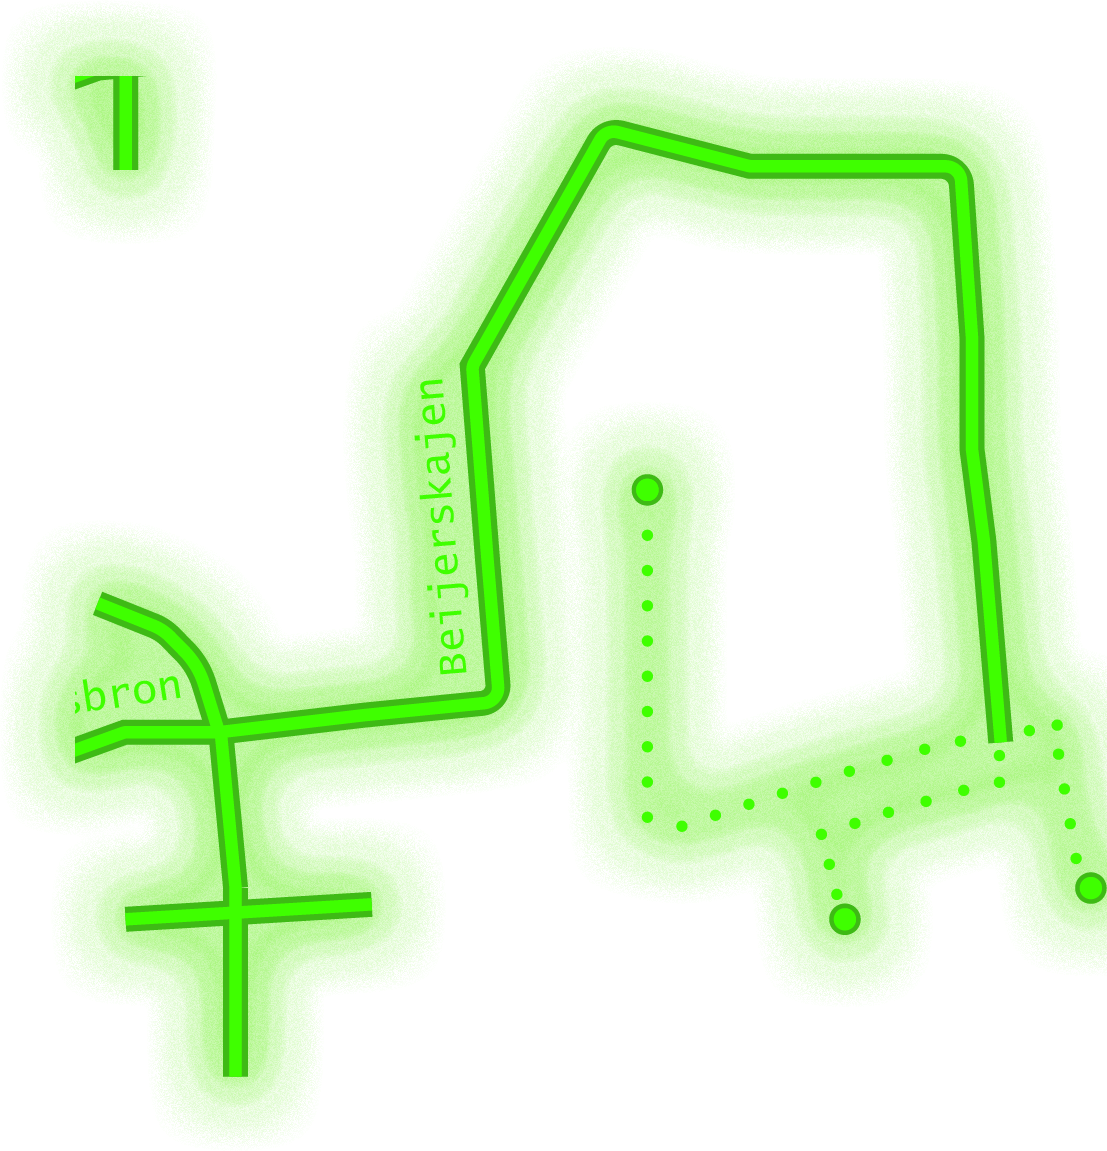
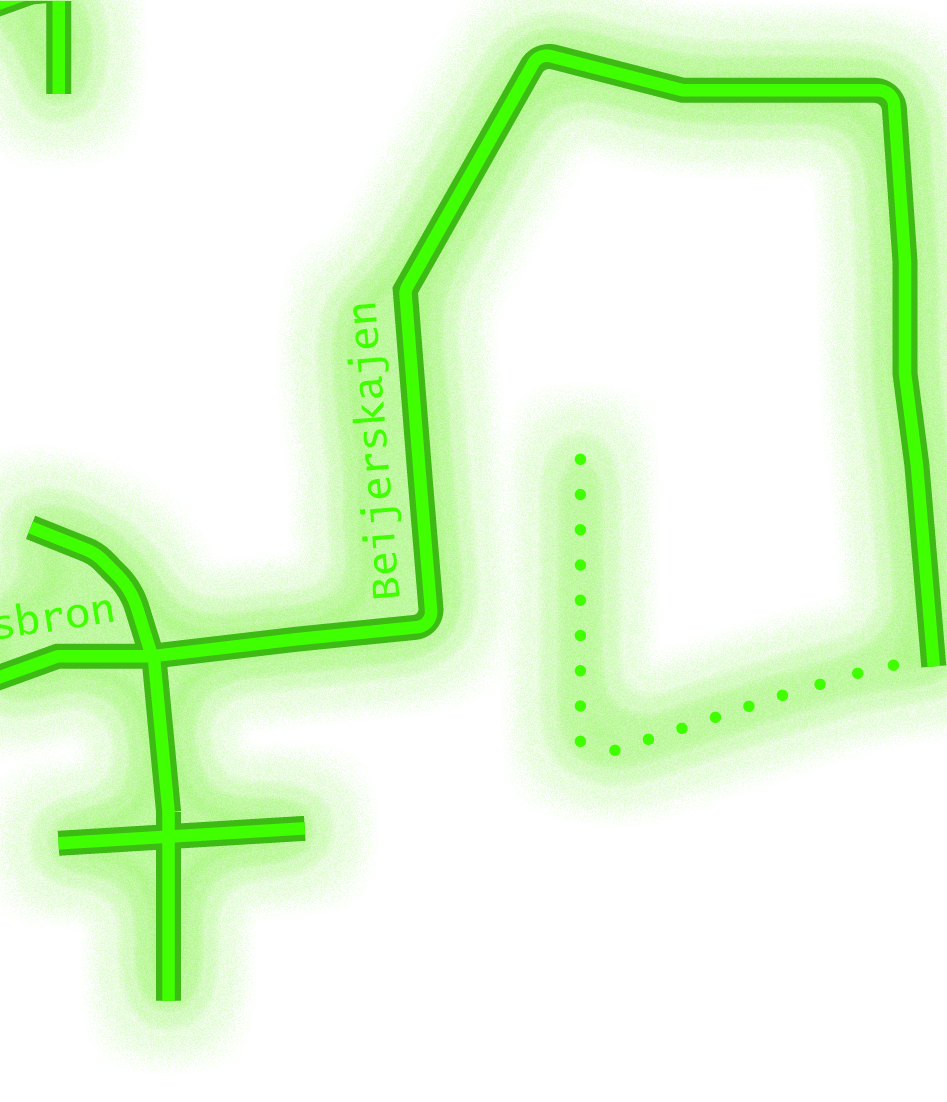
Fixed localstorage and timer

diff --git a/client/core/localstorageAPI/LocalStorage.js b/client/core/localstorageAPI/LocalStorage.js
@@ -3,10 +3,19 @@ import { store } from "../store/Store.js";
 class LocalStorage {
 
     constructor() {
+        this.stuffs = {
+            currentTime: null,
+            startedTime: null
+        }
+        this.selections = {
+            currentTime: null,
+            startedTime: null
+        }
         this.storage = localStorage;
 
         store.subscribe("currentTime", (data) => {
-            this.setItemStorage(data);
+            // this.setItemStorage({ currentTime: data });
+            this.setItemStorage({ currentTime: data });
             console.log("HSS")
         })
         // store.subscribe("currentMap", (data) => {
@@ -14,12 +23,14 @@ class LocalStorage {
         //     this.setItemStorage(data);
         // }       
         store.subscribe("startedTime", (data) => {
-            this.setItemStorage(data);
+            // this.setItemStorage({ startedTime: data });
+            this.setItemStorage({ startedTime: data });
             console.log("WORK")
 
         })
 
         this.storageUpdateState();
+
     }
 
 
@@ -27,8 +38,18 @@ class LocalStorage {
         if (!data) {
             return;
         }
+        localStorage.setItem(Object.keys(data), JSON.stringify(data));
+        // this.stuffs = {
+        //     ...this.stuffs,
+        //     ...data
+        // }
+        // localStorage.setItem("stuffs", JSON.stringify(this.stuffs));
 
-        localStorage.setItem(data.idname, JSON.stringify(data));
+        // if (!data) {
+        //     return;
+        // }
+
+        // localStorage.setItem(data.idname, JSON.stringify(data));
 
     }
 
@@ -41,21 +62,40 @@ class LocalStorage {
     }
 
     storageUpdateState() {
-        let newState = { ...store.state }; // Ta nuvarande state som bas
-        console.log(newState)
-        for (let i = 0; i < localStorage.length; i++) {
-            let key = localStorage.key(i);
 
-            const data = JSON.parse(localStorage.getItem(key));
+        // Sebbes lösning
+        // if (localStorage.getItem("stuffs")) {
+        //     this.stuffs = JSON.parse(localStorage.getItem("stuffs"))
+        //     store.state.currentTime = this.stuffs.currentTime;
+        //     store.state.startedTime = this.stuffs.startedTime;
+        // }
 
-            if (data) {
-                console.log(data)
-                console.log(key)
+        for (let key in this.selections) {
+            let selection = JSON.parse(localStorage.getItem(key));
+            console.log(key)
+            console.log(selection)
 
-                store.state = { [data.idname]: data };;
-                console.log(store.state);
-            }
+            store.state = selection;
+            console.log(store.state);
         }
+
+
+        // GÖR OM LOCALSTORAGE, SÅ ATT DEN UPPDATERAR STATE ALLTID, OCH HELA STATE OCH INTE BARA VARJE GREJ HELA TIDEN VIA LOOP
+        // let newState = { ...store.state }; // Ta nuvarande state som bas
+        // console.log(newState)
+        // for (let i = 0; i < localStorage.length; i++) {
+        //     let key = localStorage.key(i);
+
+        //     const data = JSON.parse(localStorage.getItem(key));
+
+        //     if (data) {
+        //         console.log(data)
+        //         console.log(key)
+
+        //         store.state = { [data.idname]: data };;
+        //         console.log(store.state);
+        //     }
+        // }
 
         // store.state = newState;
     }

diff --git a/client/views/timer/globalTimerFunc.js b/client/views/timer/globalTimerFunc.js
@@ -15,14 +15,14 @@ export class GlobalTimerFunc {
         pubsub.publish(EVENTS.GAME.TIMER.HALF);
 
         pubsub.subscribe(EVENTS.GAME.TIMER.START, () => {
-            store.state = { startedTime: { idname: "startedTime", time: Date.now() } };
+            store.state = { startedTime: Date.now() };
             setInterval(() => {
                 this.timerLogic();
             }, 1000)
 
         })
-
-        if (store.state.startedTime.time) {
+        console.log(store.state)
+        if (store.state.startedTime) {
             setInterval(() => {
                 this.refreshTimerLogic();
             }, 1000);
@@ -32,17 +32,17 @@ export class GlobalTimerFunc {
     }
 
     timerLogic() {
-        let currTime = store.state.currentTime.time;
+        let currTime = store.state.currentTime;
         console.log(Date.now())
         currTime = currTime - 1000;
 
-        store.state = { currentTime: { idname: "currentTime", time: currTime } };
+        store.state = { currentTime: currTime };
     }
 
     refreshTimerLogic() {
         let totalTime = 10800000;
-        let currTime = store.state.currentTime.time;
-        let startedDate = store.state.startedTime.time;
+        let currTime = store.state.currentTime;
+        let startedDate = store.state.startedTime;
         let currentDate = Date.now();
 
         let timeDiff = currentDate - startedDate;
@@ -55,7 +55,7 @@ export class GlobalTimerFunc {
         }
 
 
-        store.state = { currentTime: { idname: "currentTime", time: currTime } };
+        store.state = { currentTime: currTime };
 
 
     }

diff --git a/client/core/store/state.js b/client/core/store/state.js
@@ -8,21 +8,15 @@ export const state = {
         direction: "N"
     },
 
-    currentTime: {
-        idname: "currentTime",
-        time: 10800000,
-    },
+    currentTime: 10800000,
 
-    startedTime: {
-        idname: "startedTime",
-        time: 0
-    },
+    startedTime: 0,
 
     currentMap: {
         idname: "currentMap",
         mapName: "karta1",
         cordinates: { topLeftLong: 12.9882200, topRightLong: 13.0003500, topLeftLat: 55.6142100, bottomLeftLat: 55.6071200 },
-        mapSize: { width: 1107, height: 1151 }
+        mapSize: { width: 947, height: 1102 }
         // mapName: "karta2",
         // cordinates: { cordinates: { topLeftLong: 12.974861, topRightLong: 12.988768, topLeftLat: 55.612296, bottomLeftLat: 55.606152 } },
         // mapSize: { width: 1853, height: 1180 }

diff --git a/client/views/navigation/components/StartMap.js b/client/views/navigation/components/StartMap.js
@@ -71,7 +71,7 @@ class StartMap extends HTMLElement {
             this.currentCordinates.longitude = pos.coords.longitude;
             this.currentCordinates.latitude = pos.coords.latitude;
 
-            this.shadowRoot.querySelector("p").innerHTML = `Cordinates: ${pos.coords.latitude}, ${pos.coords.longitude}, Distance: ${this.calculateDistance(12.989923, 55.608916, this.currentCordinates.longitude, this.currentCordinates.latitude)}`;
+            this.shadowRoot.querySelector("p").innerHTML = `Cordinates: ${pos.coords.latitude}, ${pos.coords.longitude}, Distance: ${this.calculateDistance(12.989923, 55.608916, pos.coords.longitude, pos.coords.latitude)}`;
 
 
             console.log(pos.coords.latitude, pos.coords.longitude);

diff --git a/client/views/lastVideo/components/video.js b/client/views/lastVideo/components/video.js
@@ -15,7 +15,7 @@ class VideoComp extends HTMLElement {
     playMusic() {
         let videoDOM = this.shadowRoot.querySelector("#videoMax")
         console.log(videoDOM)
-        let song = new Audio("./views/lastVideo/components/Running_Up_That_Hill.mp3");
+        let song = new Audio("globalcomponents/audios/Running_Up_That_Hill.mp3");
 
         videoDOM.addEventListener("play", () => {
             song.play()
@@ -23,7 +23,7 @@ class VideoComp extends HTMLElement {
         videoDOM.addEventListener("pause", () => {
             song.pause()
         })
-        
+
     }
 
     render() {

diff --git a/client/globalcomponents/timercomp/TimerComponent.js b/client/globalcomponents/timercomp/TimerComponent.js
@@ -18,9 +18,9 @@ class TimerComponent extends HTMLElement {
         let h3 = this.shadowRoot.querySelector("h3");
 
         store.subscribe("currentTime", (data) => {
-            seconds = Math.floor((data.time / 1000)) % 60;
-            minutes = Math.floor((data.time / 60000)) % 60;
-            hours = data.time / 3600000;
+            seconds = Math.floor((data / 1000)) % 60;
+            minutes = Math.floor((data / 60000)) % 60;
+            hours = data / 3600000;
 
             h3.innerHTML = `${Math.trunc(hours)}:${Math.trunc(minutes)}:${seconds}`;
         })

diff --git a/client/views/timer/components/Timer.js b/client/views/timer/components/Timer.js
@@ -77,9 +77,9 @@ class Timer extends HTMLElement {
             //     hours = hours - 1;
             // }
 
-            seconds = Math.floor((data.time / 1000)) % 60;
-            minutes = Math.floor((data.time / 60000)) % 60;
-            hours = data.time / 3600000;
+            seconds = Math.floor((data / 1000)) % 60;
+            minutes = Math.floor((data / 60000)) % 60;
+            hours = data / 3600000;
 
             g.text(`${Math.trunc(hours)}:${Math.trunc(minutes)}:${seconds}`);
 
